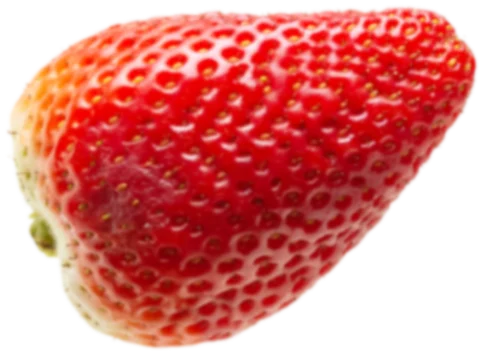
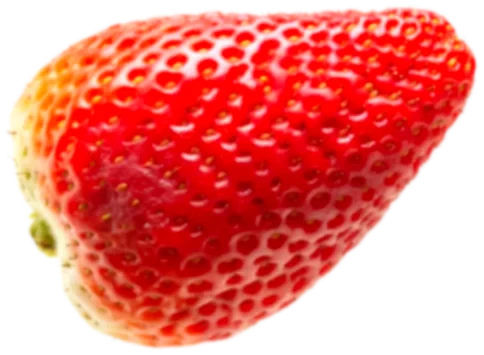
Hero: nicer top-left strawberries, richer colour, less blur on fruit
Claude-Session: https://claude.ai/code/session_015Aff97EdtKyYaoNHtg5nGv

diff --git a/public/index.html b/public/index.html
@@ -261,7 +261,7 @@ a.cart-btn { text-decoration: none; display: inline-flex; align-items: center }
 .stage3d .fruit { position: absolute; inset: 0; pointer-events: none }
 .stage3d canvas { z-index: 1 } .stage3d .fr { position: absolute; height: auto; z-index: 2; scale: var(--sc, 1 1); rotate: var(--r); translate: calc(var(--mx, 0) * var(--d) * 90px) calc(var(--hp, 0) * var(--d) * -220px); animation: frin 1s cubic-bezier(.3,1.4,.5,1) var(--dl) both, frfloat var(--t, 7s) ease-in-out calc(var(--dl) + 1s) infinite; filter: drop-shadow(0 24px 26px rgba(120,20,30,.28)) }
 .stage3d .fr.back { z-index: 0; filter: blur(1.5px) drop-shadow(0 16px 18px rgba(120,20,30,.2)); opacity: .95 }
-.stage3d .fr { z-index: 0 !important; opacity: .85 } .stage3d .fr.front { filter: blur(1.4px) drop-shadow(0 16px 18px rgba(120,20,30,.18)) } .stage3d .fr.back { filter: blur(3.2px); opacity: .62 } .stage3d .fr.ice.back { filter: blur(3px) } .stage3d .fr.ice.front { filter: blur(1.2px) }
+.stage3d .fr { z-index: 0 !important; opacity: .85 } .stage3d .fr.front { filter: blur(.4px) saturate(1.05) drop-shadow(0 16px 18px rgba(120,20,30,.2)); opacity: .96 } .stage3d .fr.back { filter: blur(2px); opacity: .75 } .stage3d .fr.ice.back { filter: blur(3px) } .stage3d .fr.ice.front { filter: blur(1.2px) }
 .stage3d .fr.ice { filter: drop-shadow(0 10px 14px rgba(40,90,130,.18)) } .stage3d .fr.ice.back { filter: blur(1px) }
 @keyframes frin { from { opacity: 0; transform: translateY(-60px) scale(.7) } to { opacity: 1; transform: none } }
 @keyframes frfloat { 0%, 100% { transform: translate(0, 0) rotate(0) } 25% { transform: translate(6px, -22px) rotate(7deg) } 50% { transform: translate(0, -34px) rotate(-3deg) } 75% { transform: translate(-7px, -14px) rotate(-8deg) } }
@@ -532,7 +532,7 @@ footer p { margin: 0; color: var(--ink); font-size: 14px }
         <a class="meet" href="#flavors">Meet Strawberry &amp; Rose ↓</a>
         <div class="facts"><span class="f" style="--c:#3FBF7F"><i><svg viewBox="0 0 24 24" fill="currentColor"><path d="M13 2L5 14h6l-1 8 8-12h-6l1-8z"/></svg></i>Natural caffeine</span><span class="f" style="--c:#FF5C7C"><i><svg viewBox="0 0 24 24" fill="none" stroke="currentColor" stroke-width="2.4" stroke-linecap="round"><circle cx="12" cy="12" r="8"/><path d="M6.5 17.5l11-11"/></svg></i>0 g sugar</span><span class="f" style="--c:#2FB5A8"><i><svg viewBox="0 0 24 24" fill="none" stroke="currentColor" stroke-width="2.2" stroke-linecap="round" stroke-linejoin="round"><path d="M5 19c0-8 5-13 14-14 0 9-5 14-13 14"/><path d="M5 19l8-8"/></svg></i>Clean energy</span><span class="f" style="--c:#5CC1FF"><i><svg viewBox="0 0 24 24" fill="none" stroke="currentColor" stroke-width="2.2" stroke-linecap="round" stroke-linejoin="round"><path d="M7 18a5 5 0 0 1 0-10 6 6 0 0 1 11 1.5A4.3 4.3 0 0 1 17.5 18z"/></svg></i>Under 10 kcal</span></div>
       </div>
-      <div class="stage3d" id="stage3d" aria-label="Cloudly Strawberry &amp; Rose"><div class="fallback" id="fallback"></div><div class="fruit" aria-hidden="true"><img class="fr front f1" style="right:2%;bottom:10%;width:16%;--d:1.4;--r:-14deg;--dl:0s;--t:7s" src="fruit/strawberry-5.webp" alt=""><img class="fr front f2" style="left:2%;top:6%;width:15%;--d:1.2;--r:12deg;--dl:.3s;--t:8s" src="fruit/strawberry-1.webp" alt=""><img class="fr back f3" style="right:6%;top:46%;width:9%;--d:.6;--r:-8deg;--dl:.6s;--t:6s" src="fruit/strawberry-0.webp" alt=""><img class="fr back f4" style="left:7%;bottom:16%;width:13%;--d:.7;--r:18deg;--dl:.9s;--t:9s" src="fruit/strawberry-3.webp" alt=""><img class="fr back f5" style="left:34%;top:-4%;width:8%;--d:.5;--r:-20deg;--dl:1.1s;--t:7.5s" src="fruit/strawberry-4.webp" alt=""><img class="fr ice back f13" style="left:25%;top:6%;width:11%;--d:.6;--r:10deg;--dl:.7s;--t:8s" src="fruit/ice-0.webp" alt=""><img class="fr ice front f14" style="right:23%;bottom:36%;width:10%;--d:1.3;--r:-6deg;--dl:1.0s;--t:7s" src="fruit/ice-1.webp" alt=""><img class="fr ice back f15" style="right:31%;top:2%;width:8%;--d:.5;--r:14deg;--dl:1.4s;--t:9s" src="fruit/ice-2.webp" alt=""><img class="fr ice front f16" style="left:9%;top:28%;width:10%;--d:1.1;--r:-12deg;--dl:1.2s;--t:6.5s" src="fruit/ice-3.webp" alt=""><img class="fr ice back f20" style="right:4%;top:2%;width:9%;--d:.5;--r:-18deg;--dl:1.6s;--t:8.5s;--sc:-1 1" src="fruit/ice-0.webp" alt=""><img class="fr ice front f21" style="left:20%;bottom:4%;width:10%;--d:.9;--r:22deg;--dl:1.8s;--t:7.5s;--sc:-1 1" src="fruit/ice-2.webp" alt=""></div><div class="stamp" aria-hidden="true"><svg class="ring" viewBox="0 0 200 200"><defs><path id="ringp" d="M100,100 m-74,0 a74,74 0 1,1 148,0 a74,74 0 1,1 -148,0"/></defs><text font-family="Nunito, sans-serif" font-weight="800" font-size="21" letter-spacing="4.6" fill="#123D33"><textPath href="#ringp" textLength="458" lengthAdjust="spacing">CLEAN ENERGY • COMING SOON •</textPath></text></svg><svg class="mid" viewBox="0 0 100 60"><path d="M22 54 C10 54 4 46 4 38 C4 29 11 23 19 23 C21 12 30 5 41 5 C53 5 62 13 64 24 C66 23 68 23 70 23 C81 23 90 31 90 41 C90 49 85 54 77 54 Z" fill="#123D33"/><path d="M51 20 L42 35 L48.5 35 L45.5 46 L57 30 L50.5 30 L54 20 Z" fill="#FFE600" stroke="#FFE600" stroke-width="4" stroke-linejoin="round"/></svg></div></div>
+      <div class="stage3d" id="stage3d" aria-label="Cloudly Strawberry &amp; Rose"><div class="fallback" id="fallback"></div><div class="fruit" aria-hidden="true"><img class="fr front f1" style="right:2%;bottom:10%;width:16%;--d:1.4;--r:-14deg;--dl:0s;--t:7s" src="fruit/strawberry-5.webp" alt=""><img class="fr front f2" style="left:0%;top:4%;width:17%;--d:1.2;--r:-6deg;--dl:.3s;--t:8s" src="fruit/strawberry-2.webp" alt=""><img class="fr back f3" style="right:6%;top:46%;width:9%;--d:.6;--r:-8deg;--dl:.6s;--t:6s" src="fruit/strawberry-0.webp" alt=""><img class="fr back f4" style="left:7%;bottom:16%;width:13%;--d:.7;--r:18deg;--dl:.9s;--t:9s" src="fruit/strawberry-3.webp" alt=""><img class="fr back f5" style="left:34%;top:-4%;width:8%;--d:.5;--r:-20deg;--dl:1.1s;--t:7.5s" src="fruit/strawberry-4.webp" alt=""><img class="fr ice back f13" style="left:25%;top:6%;width:11%;--d:.6;--r:10deg;--dl:.7s;--t:8s" src="fruit/ice-0.webp" alt=""><img class="fr ice front f14" style="right:23%;bottom:36%;width:10%;--d:1.3;--r:-6deg;--dl:1.0s;--t:7s" src="fruit/ice-1.webp" alt=""><img class="fr ice back f15" style="right:31%;top:2%;width:8%;--d:.5;--r:14deg;--dl:1.4s;--t:9s" src="fruit/ice-2.webp" alt=""><img class="fr ice front f16" style="left:9%;top:28%;width:10%;--d:1.1;--r:-12deg;--dl:1.2s;--t:6.5s" src="fruit/ice-3.webp" alt=""><img class="fr ice back f20" style="right:4%;top:2%;width:9%;--d:.5;--r:-18deg;--dl:1.6s;--t:8.5s;--sc:-1 1" src="fruit/ice-0.webp" alt=""><img class="fr ice front f21" style="left:20%;bottom:4%;width:10%;--d:.9;--r:22deg;--dl:1.8s;--t:7.5s;--sc:-1 1" src="fruit/ice-2.webp" alt=""></div><div class="stamp" aria-hidden="true"><svg class="ring" viewBox="0 0 200 200"><defs><path id="ringp" d="M100,100 m-74,0 a74,74 0 1,1 148,0 a74,74 0 1,1 -148,0"/></defs><text font-family="Nunito, sans-serif" font-weight="800" font-size="21" letter-spacing="4.6" fill="#123D33"><textPath href="#ringp" textLength="458" lengthAdjust="spacing">CLEAN ENERGY • COMING SOON •</textPath></text></svg><svg class="mid" viewBox="0 0 100 60"><path d="M22 54 C10 54 4 46 4 38 C4 29 11 23 19 23 C21 12 30 5 41 5 C53 5 62 13 64 24 C66 23 68 23 70 23 C81 23 90 31 90 41 C90 49 85 54 77 54 Z" fill="#123D33"/><path d="M51 20 L42 35 L48.5 35 L45.5 46 L57 30 L50.5 30 L54 20 Z" fill="#FFE600" stroke="#FFE600" stroke-width="4" stroke-linejoin="round"/></svg></div></div>
     </div>
   </section>
 
